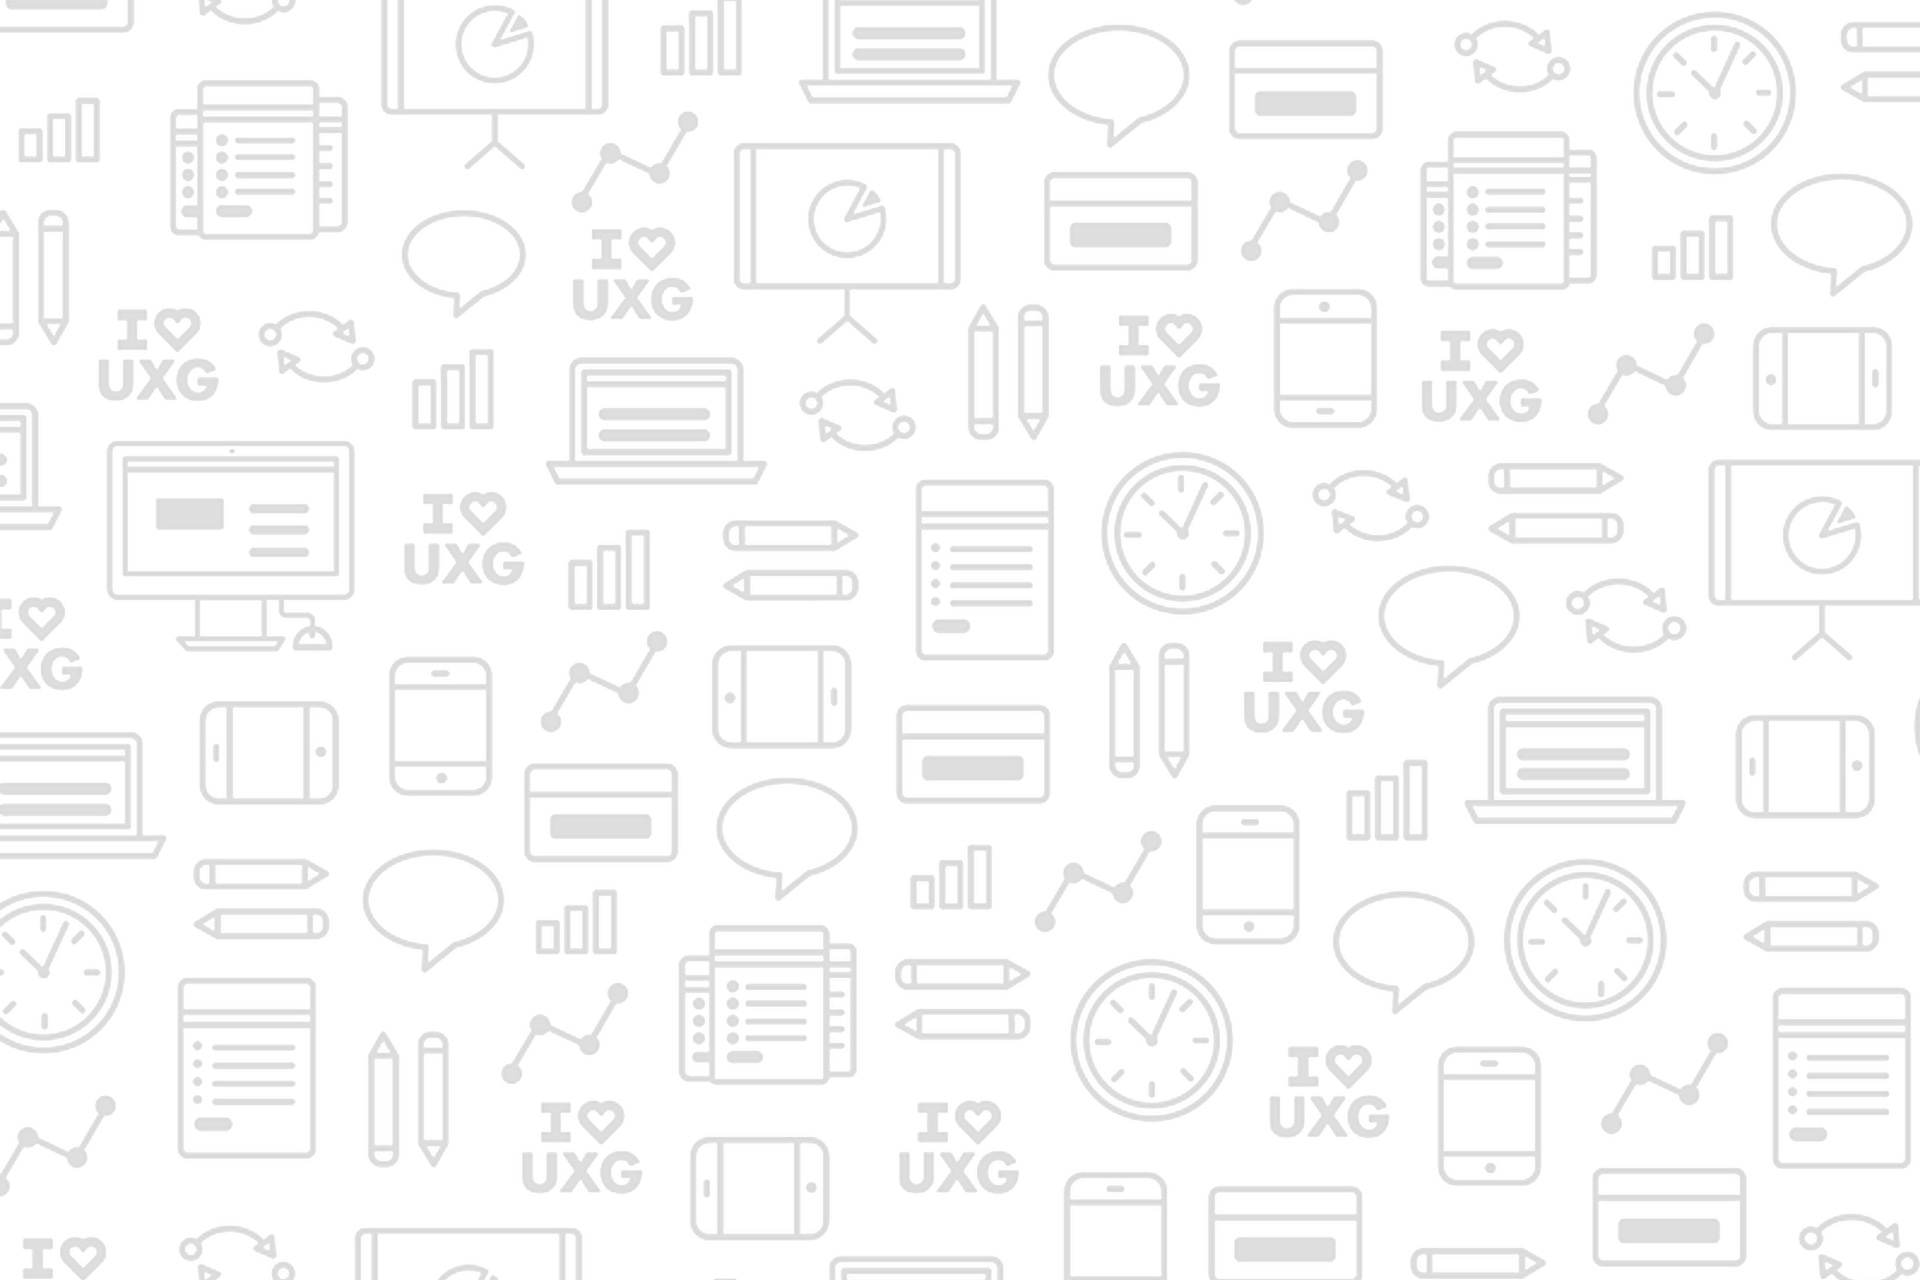
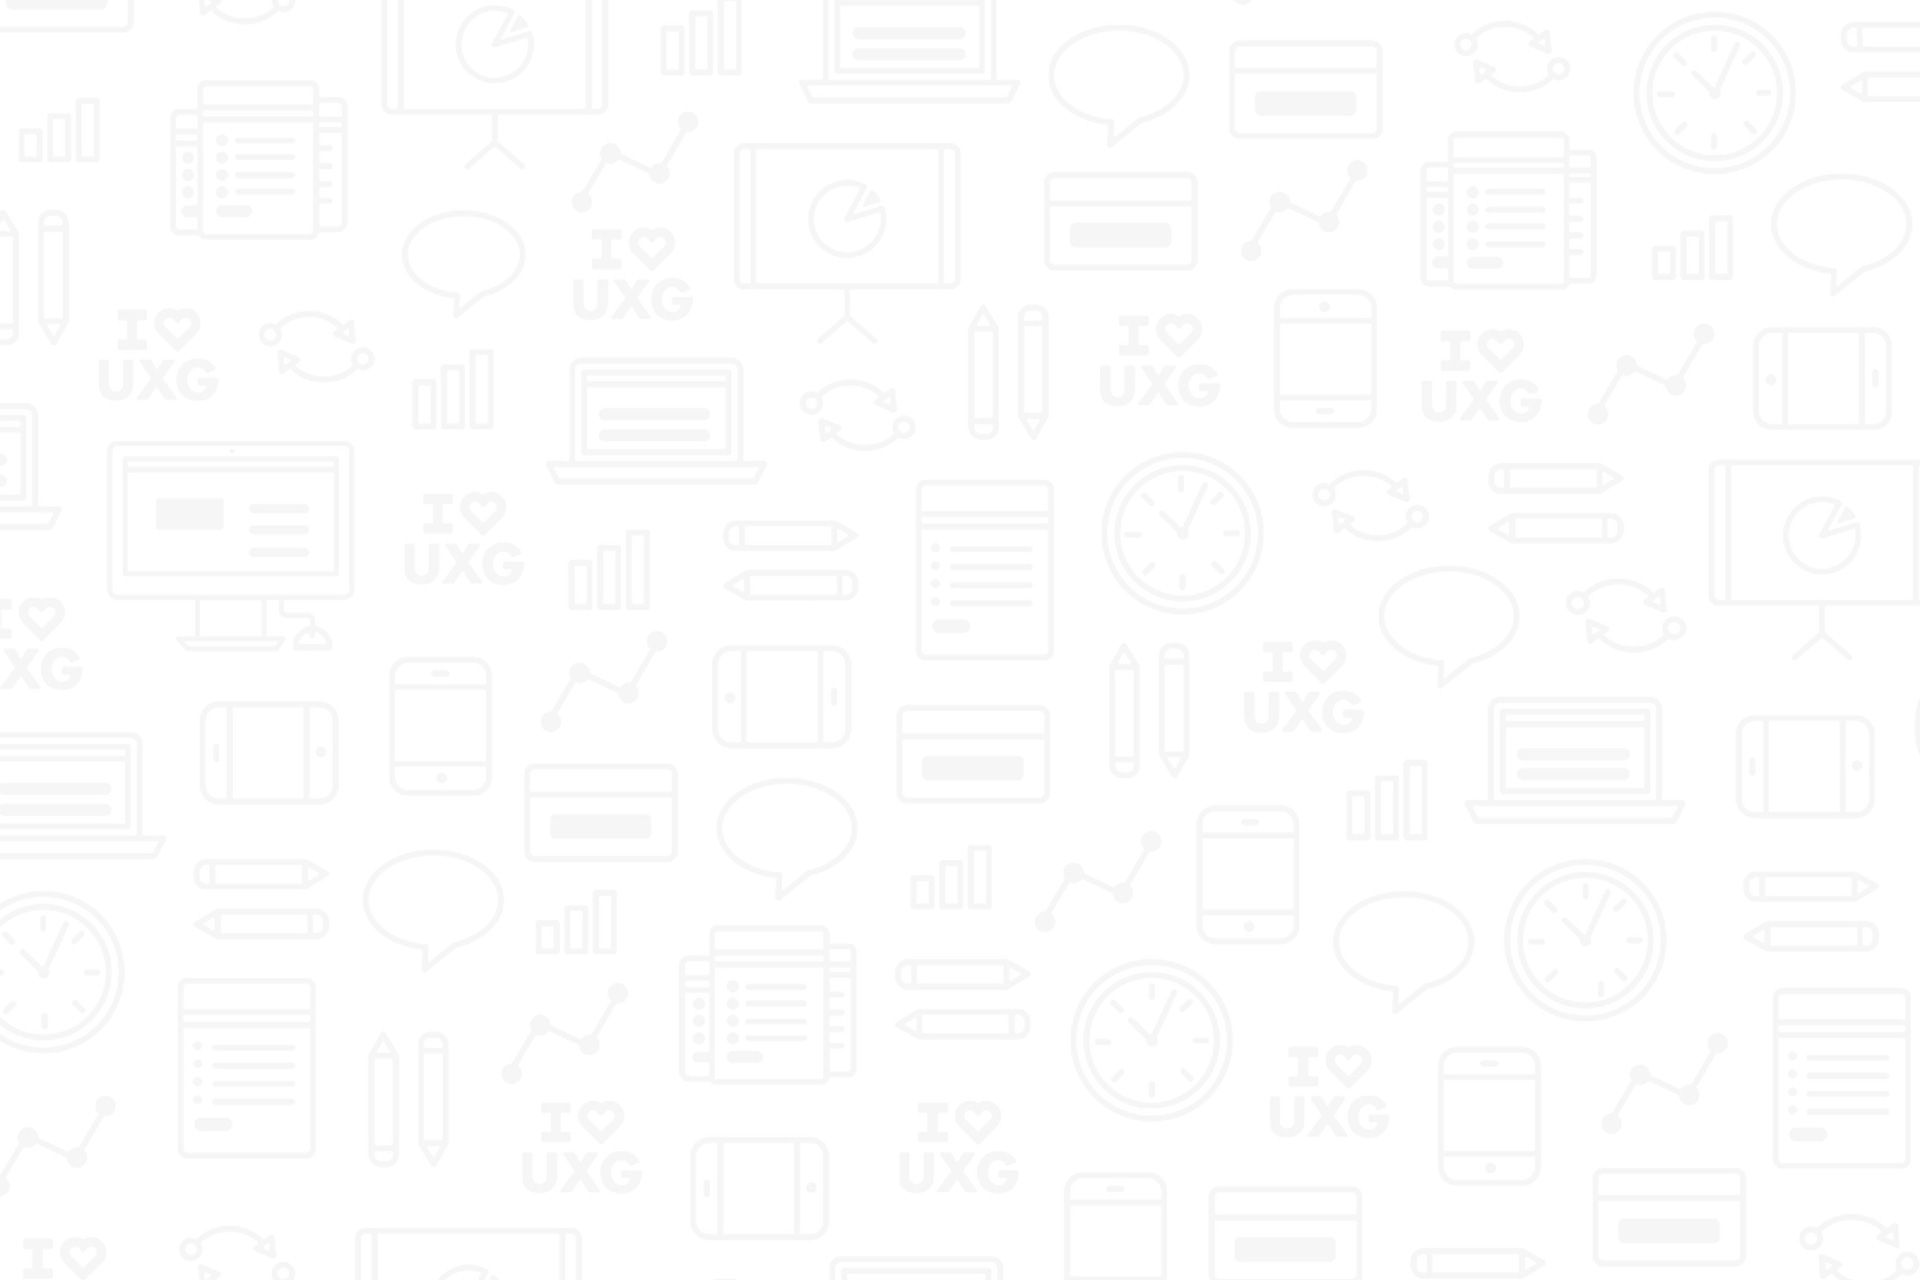
ajuste de fondo

diff --git a/index.html b/index.html
@@ -99,8 +99,8 @@
           <section id="inicio">
             <div class="row rw-ht pattern">
               <a name="inicio"></a>
-              <h1 class="text-center pd-10-10 text-cyan wow bounceInUp">La vida no es fácil para ninguno de nosotros. Pero... ¡Qué importa! Hay que perseverar y, sobre todo, tener confianza en uno mismo.</h1>
-              <h1 class="text-center text-purple wow fadeInUp">Marie Curie</h1>
+              <h1 class="text-center pd-10-10 text-cyan wow bounceInUp">"La vida no es fácil para ninguno de nosotros. Pero... ¡Qué importa! Hay que perseverar, y sobre todo, tener confianza en uno mismo"</h1>
+              <h2 id="curie" class="text-center text-purple wow fadeInUp">Marie Curie</h2>
             </div>
           </section>
           <!-- ACERCA DE MI -->
@@ -155,6 +155,13 @@
                   </div>
                   <div class="skill-bar-percent"><strong>Intermedio</strong></div>
                 </div>
+                <!--SKILL BOOTSTRAP-->
+                <div class="skillbar clearfix " data-percent="70%">
+                  <div class="skillbar-title" style="background:#58387F;">
+                    <span>Bootstrap</span></div>
+                  <div class="skillbar-bar" style="background:#7E5FA3;"></div>
+                  <div class="skill-bar-percent"><strong>Intermedio</strong></div>
+                </div>
                 <!-- SKILL JAVASCRIPT -->
                 <div class="skillbar clearfix " data-percent="40%">
                   <div class="skillbar-title" style="background: #58387F;"><span>JavaScript</span></div>
@@ -167,13 +174,6 @@
                     <span>jQuery</span></div>
                   <div class="skillbar-bar" style="background:#7E5FA3;"></div>
                   <div class="skill-bar-percent"><strong>Básico</strong></div>
-                </div>
-                <!--SKILL BOOTSTRAP-->
-                <div class="skillbar clearfix " data-percent="70%">
-                  <div class="skillbar-title" style="background:#58387F;">
-                    <span>Bootstrap</span></div>
-                  <div class="skillbar-bar" style="background:#7E5FA3;"></div>
-                  <div class="skill-bar-percent"><strong>Intermedio</strong></div>
                 </div>
                 <!--SKILL GITHUB-->
                 <div class="skillbar clearfix " data-percent="40%">
@@ -321,7 +321,7 @@
               <!-- LOGOTIPO KHOCH -->
               <div class="col-lg-4 col-md-4 col-sm-12 col-xs-12">
                 <a href="img/design/khoch.jpg" class="animated zoomIn with-caption image-link img-responsive" title="Creacion de logotipo para la marca de ropa interior Kkoch">
-                  <img class="img-responsive wow zoomIn" src="img/design/khoch.jpg" alt="logotipo Khoch">
+                  <img class="img-responsive img-thumbnail wow zoomIn" src="img/design/khoch.jpg" alt="logotipo Khoch">
                   <div class="divFondo text-center center-block">
                     <h3>Logotipo Khoch</h3>
                     <h5>Identidad Gráfica</h5>
@@ -332,7 +332,7 @@
               <!-- LOGOTIPO NUTRIADICCIÓN -->
               <div class="col-lg-4 col-md-4 col-sm-12 col-xs-12 margin-sm-xs">
                 <a href="img/design/nutriaddcion.jpg" class="animated zoomIn with-caption image-link img-responsive" title="Propuesta de logotipo para la marca de snacks Nutriadicción">
-                  <img class="img-responsive wow zoomIn" src="img/design/nutriaddcion.jpg" alt="logotipo nutriadicción">
+                  <img class="img-responsive img-thumbnail wow zoomIn" src="img/design/nutriaddcion.jpg" alt="logotipo nutriadicción">
                   <div class="divFondo text-center center-block">
                     <h3>Logotipo Nutriadicción</h3>
                     <h5>Identidad Gráfica</h5>
@@ -343,7 +343,7 @@
               <!-- LOGOTIPO +AIRE -->
               <div class="col-lg-4 col-md-4 col-sm-12 col-xs-12 margin-sm-xs">
                 <a href="img/design/mas-aire.jpg" class="animated zoomIn with-caption image-link img-responsive" title="Logotipo para sitio y aplicación web realizado durante el Hackathon Telcel Infinitum 2016">
-                  <img class="img-responsive wow zoomIn" src="img/design/mas-aire.jpg" alt="logotipo más aire">
+                  <img class="img-responsive img-thumbnail wow zoomIn" src="img/design/mas-aire.jpg" alt="logotipo más aire">
                   <div class="divFondo text-center center-block">
                     <h3>Logotipo +Aire</h3>
                     <h5>Identidad Gráfica</h5>
@@ -357,7 +357,7 @@
               <!-- VERSIONAMIENTO NUTRIADICION -->
               <div class="col-lg-4 col-md-4 col-sm-12 col-xs-12">
                  <a href="img/design/bolsas-nutri.jpg" class="animated zoomIn with-caption image-link img-responsive" title="Propuesta de empaque para linea de Snacks Nutriadicción">
-                  <img class="img-responsive wow zoomIn"src="img/design/bolsas-nutri.jpg" alt="empaques nutriadicción">
+                  <img class="img-responsive img-thumbnail wow zoomIn"src="img/design/bolsas-nutri.jpg" alt="empaques nutriadicción">
                   <div class="divFondo text-center center-block">
                     <h3>Nutriadicción</h3>
                     <h5>Empaque</h5>
@@ -368,7 +368,7 @@
               <!-- CAJA SAN VALENTIN GALLETAS GABI -->
               <div class="col-lg-4 col-md-4 col-sm-12 col-xs-12 margin-sm-xs">
                 <a href="img/design/caja-san-valentin.jpg" class="animated zoomIn with-caption image-link img-responsive" title="Propuesta de empaque para dia de San Valentín galletas Gabi">
-                  <img class="img-responsive wow zoomIn" src="img/design/caja-san-valentin.jpg" alt="diseño caja san valentin galletas gabi">
+                  <img class="img-responsive img-thumbnail wow zoomIn" src="img/design/caja-san-valentin.jpg" alt="diseño caja san valentin galletas gabi">
                   <div class="divFondo text-center center-block">
                     <h3>Galletas Gabi</h3>
                     <h5>Empaque</h5>
@@ -379,7 +379,7 @@
               <!-- EMPAQUE GALLETAS GABI -->
               <div class="col-lg-4 col-md-4 col-sm-12 col-xs-12 margin-sm-xs">
                  <a href="img/design/galletas.jpg" class="animated zoomIn with-caption image-link img-responsive" title="Boceto para Propuesta de rediseño de empaque galletas Gabi">
-                  <img class="img-responsive wow zoomIn"src="img/design/galletas.jpg" alt="empaque galletas gabi">
+                  <img class="img-responsive img-thumbnail wow zoomIn"src="img/design/galletas.jpg" alt="empaque galletas gabi">
                   <div class="divFondo text-center center-block">
                     <h3>Galletas Gabi</h3>
                     <h5>Empaque</h5>
@@ -393,7 +393,7 @@
               <!-- INSTITUTO ALESA -->
               <div class="col-lg-4 col-md-4 col-sm-12 col-xs-12">
                 <a href="img/design/alesa-1.jpg" class="animated zoomIn with-caption image-link img-responsive" title="Póster y flyer publicitario para cursos de ingreso a UNAM, IPN, UAM">
-                  <img class="img-responsive wow zoomIn" src="img/design/alesa-1.jpg" alt="Póster y flyer publicitario para cursos de ingreso a UNAM, IPN, UAM">
+                  <img class="img-responsive img-thumbnail wow zoomIn" src="img/design/alesa-1.jpg" alt="Póster y flyer publicitario para cursos de ingreso a UNAM, IPN, UAM">
                   <div class="divFondo text-center center-block">
                     <h3>Instituto Alesa</h3>
                     <h5>Impresos</h5>
@@ -404,7 +404,7 @@
               <!-- DIGITAL MOVIL -->
               <div class="col-lg-4 col-md-4 col-sm-12 col-xs-12 margin-sm-xs">
                 <a href="img/design/digital-movil.jpg" class="animated zoomIn with-caption image-link img-responsive" title="Diseño de identidad gráfica y papelería personal Digital Movil">
-                  <img class="img-responsive wow zoomIn" src="img/design/digital-movil.jpg" alt="logotipo, hoja membretada y tarjeta de presentación para la empresa digital movil">
+                  <img class="img-responsive img-thumbnail wow zoomIn" src="img/design/digital-movil.jpg" alt="logotipo, hoja membretada y tarjeta de presentación para la empresa digital movil">
                   <div class="divFondo text-center center-block">
                     <h3>Digital Movil</h3>
                     <h5>Impresos</h5>
@@ -415,7 +415,7 @@
               <!-- FANDELI -->
               <div class="col-lg-4 col-md-4 col-sm-12 col-xs-12 margin-sm-xs">
                 <a href="img/design/fandeli-2.jpg" class="animated zoomIn with-caption image-link img-responsive" title="Adaptación de publicidad para línea de lijas fandeli">
-                  <img class="img-responsive wow zoomIn"src="img/design/fandeli-2.jpg" alt="publicidad fandeli">
+                  <img class="img-responsive img-thumbnail wow zoomIn"src="img/design/fandeli-2.jpg" alt="publicidad fandeli">
                   <div class="divFondo text-center center-block">
                     <h3>Fandeli</h3>
                     <h5>Impresos</h5>

diff --git a/css/style-ok.css b/css/style-ok.css
@@ -1,12 +1,4 @@
 
-
-/*ANCHO DE CADA SECCION*/
-.rw-ht{
-  height: 650px;
-  padding-top: 5%;
-  padding-bottom: 5%;
-}
-
 /* GENERALES */
 
 ul{
@@ -128,6 +120,13 @@ ul.hola>li>a:hover{
   }
 
 /*INICIO*/
+
+.rw-ht{
+  height: 650px;
+  padding-top: 5%;
+  padding-bottom: 5%;
+}
+
 .pattern{
   background-image: url("../img/fondo.jpg");
   background-size: 100%;
@@ -162,6 +161,7 @@ ul.hola>li>a:hover{
 #texto-acer{
   text-align : justify;
 }
+
 /*SECCION DE PROYECTOS WEB*/
 
 .divFondo{

diff --git a/css/navbar-fixed-side.css b/css/navbar-fixed-side.css
@@ -10,6 +10,9 @@
     margin-right: 8%;
     margin-left: 8%;
   }
+  .rw-ht{
+    height: 450px;
+  }
   /*MENU*/
   .menu-margin{
     margin-bottom: 5%;
@@ -19,13 +22,18 @@
   }
    /*SECCION INICIO*/
   h1{
-    margin-top: 20%;
+    margin-top: 30%;
     font-size: 1.6em;
   }
+  
+  #curie{
+     font-size: 1.3em;
+  }
+
   .pattern{
     background-size: 100%;
     background-position: center;
-    height: 450px;
+    height: 400px;
   }
   /*ACERCA DE MI*/
   .acer-textos{

diff --git a/js/main.js b/js/main.js
@@ -36,7 +36,7 @@ $(document).ready(function () {
 			$('.skillbar').each(function(){
 						$(this).find('.skillbar-bar').animate({
 							width:$(this).attr('data-percent')
-						},2000);
+						},1400);
 					});
 
 			}

diff --git a/css/skills.css b/css/skills.css
@@ -30,6 +30,7 @@
   font-size:13px;
   color:#fff;
   background:#6adcfa;
+  width: 110px;
   -webkit-border-top-left-radius:3px;
   -webkit-border-bottom-left-radius:4px;
   -moz-border-radius-topleft:3px;

diff --git a/css/utilities.css b/css/utilities.css
@@ -20,7 +20,7 @@
 }
 
 .pd-10-10{
-	padding: 10% 10%;
+	padding: 15% 5% 2% 5%;
 }
 .pd-5-2-5{
 	padding: 5% 0%;
